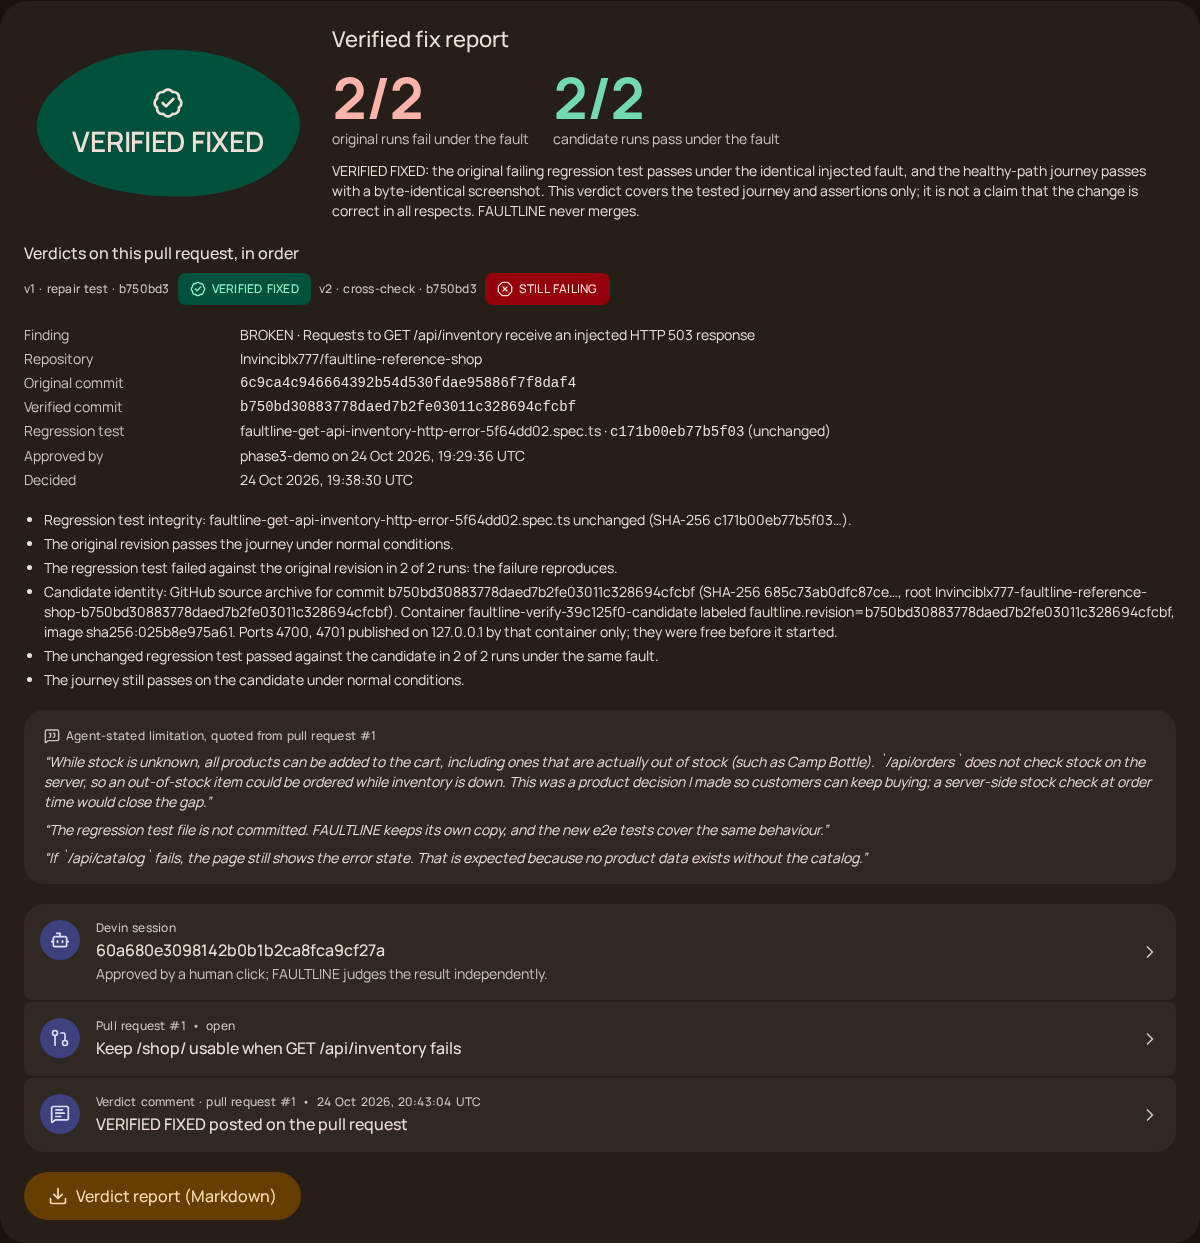
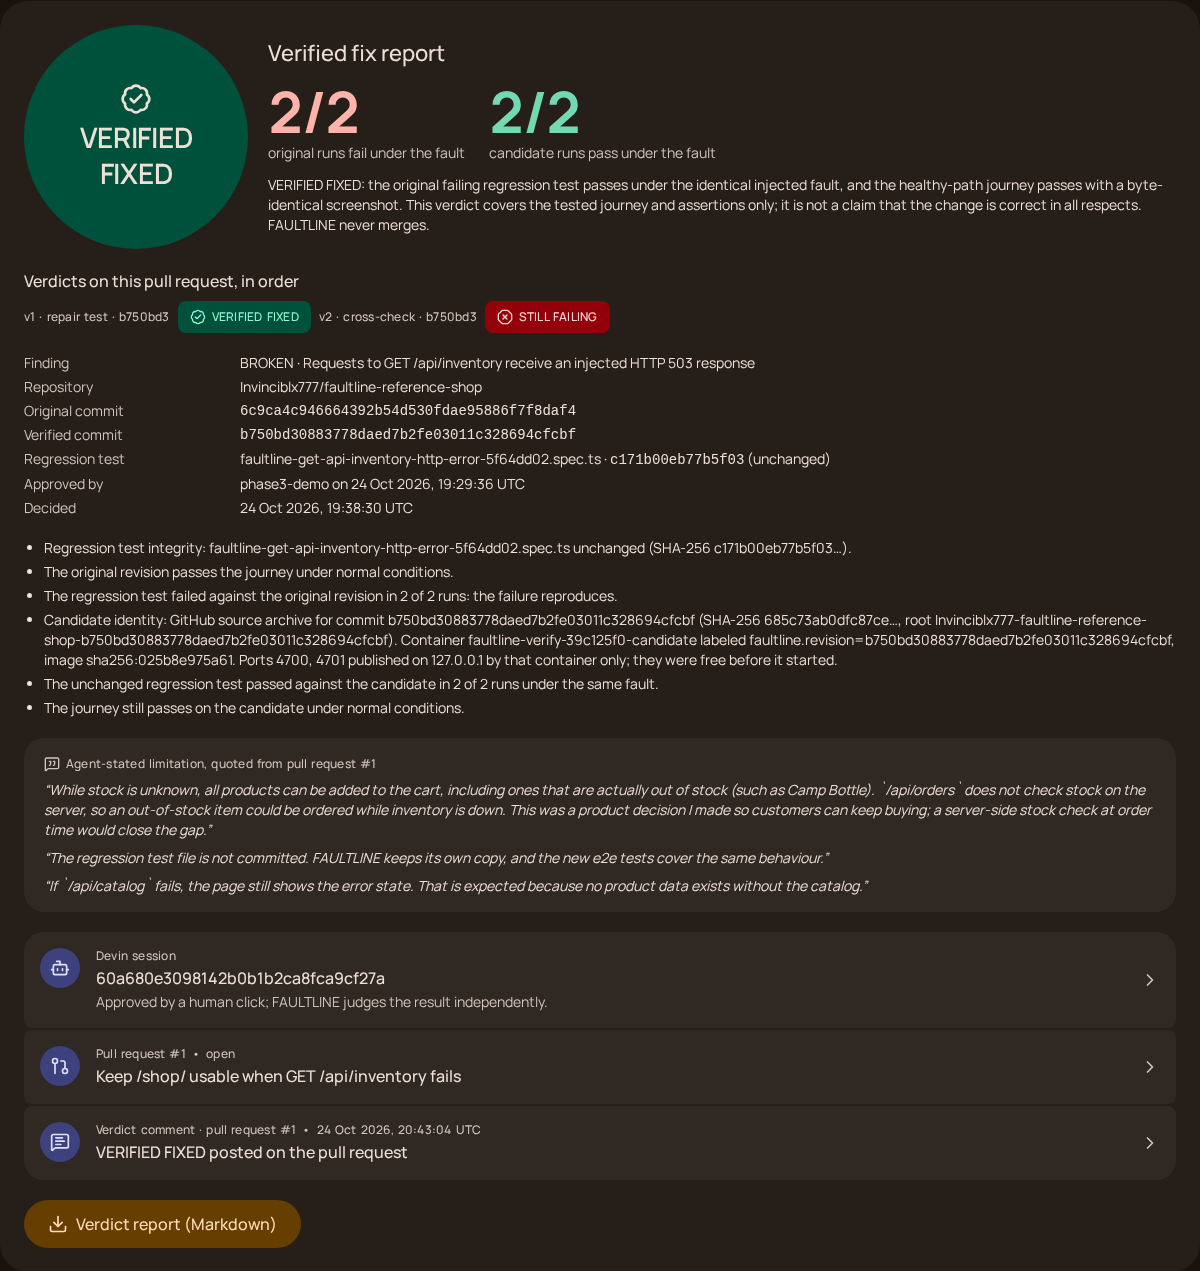
fix(ui): render the verdict hero as a true circle; refresh README verdict screenshot
The verdict shape stretched the blob path across a 288x160 box, so it read as an oval.
Add a proportional `circle` ExpressiveShape and place it in a square 224px hero.
capture-docs.mjs now also captures docs/screenshots/08-verdict-scope.png (the report card).
Re-baselined the verification visual snapshots.

diff --git a/apps/web/src/design/components/expressive-shape.tsx b/apps/web/src/design/components/expressive-shape.tsx
@@ -1,6 +1,6 @@
 import { cn } from "@/lib/cn";
 
-// Precomputed paths on a 100×100 box. Scallop: 12-lobed cookie; blob: soft four-lobe organic form.
+// Precomputed paths on a 100×100 box. Scallop: 12-lobed cookie; blob: soft four-lobe organic form; circle: full disc.
 function scallopPath() {
   const lobes = 12;
   const points: string[] = [];
@@ -15,12 +15,13 @@ function scallopPath() {
 const PATHS = {
   scallop: scallopPath(),
   blob: "M50 4C68 4 79 13 88 26C97 39 98 55 92 70C86 85 72 96 54 96C36 96 20 89 11 75C2 61 3 43 10 30C18 15 32 4 50 4Z",
+  circle: "M50 0A50 50 0 1 1 50 100A50 50 0 1 1 50 0Z",
 } as const;
 
 /** Decorative M3 Expressive shape placed behind hero content. Color comes from the `className` (fill-*). */
 export function ExpressiveShape({ shape, className }: { shape: keyof typeof PATHS; className?: string }) {
   return (
-    // The blob stretches to its box (it sits behind words of varying length); the scallop keeps its proportions.
+    // The blob stretches to its box (it sits behind words of varying length); the scallop and circle keep their proportions.
     <svg viewBox="0 0 100 100" preserveAspectRatio={shape === "blob" ? "none" : undefined} aria-hidden focusable="false" className={cn("pointer-events-none", className)}>
       <path d={PATHS[shape]} />
     </svg>

diff --git a/apps/web/src/app/(app)/repairs/[repairId]/page.tsx b/apps/web/src/app/(app)/repairs/[repairId]/page.tsx
@@ -189,9 +189,9 @@ function VerifiedReport({ detail, canComment }: { detail: RepairDetail; canComme
   return (
     <Card tier="container" aria-labelledby="report-title" className="flex flex-col gap-5">
       <div className="flex flex-col gap-5 sm:flex-row sm:items-center">
-        <span className="relative grid h-40 w-full shrink-0 place-items-center sm:w-72">
-          <ExpressiveShape shape="blob" className={cn("absolute inset-0 h-full w-full", style.blob)} />
-          <span className="relative flex flex-col items-center gap-1 px-6 text-center">
+        <span className="relative grid size-56 shrink-0 place-items-center self-center">
+          <ExpressiveShape shape="circle" className={cn("absolute inset-0 h-full w-full", style.blob)} />
+          <span className="relative flex flex-col items-center gap-1 px-8 text-center">
             <VerdictIcon aria-hidden className="size-8" />
             <span className="md-headline-medium">{style.label}</span>
           </span>
